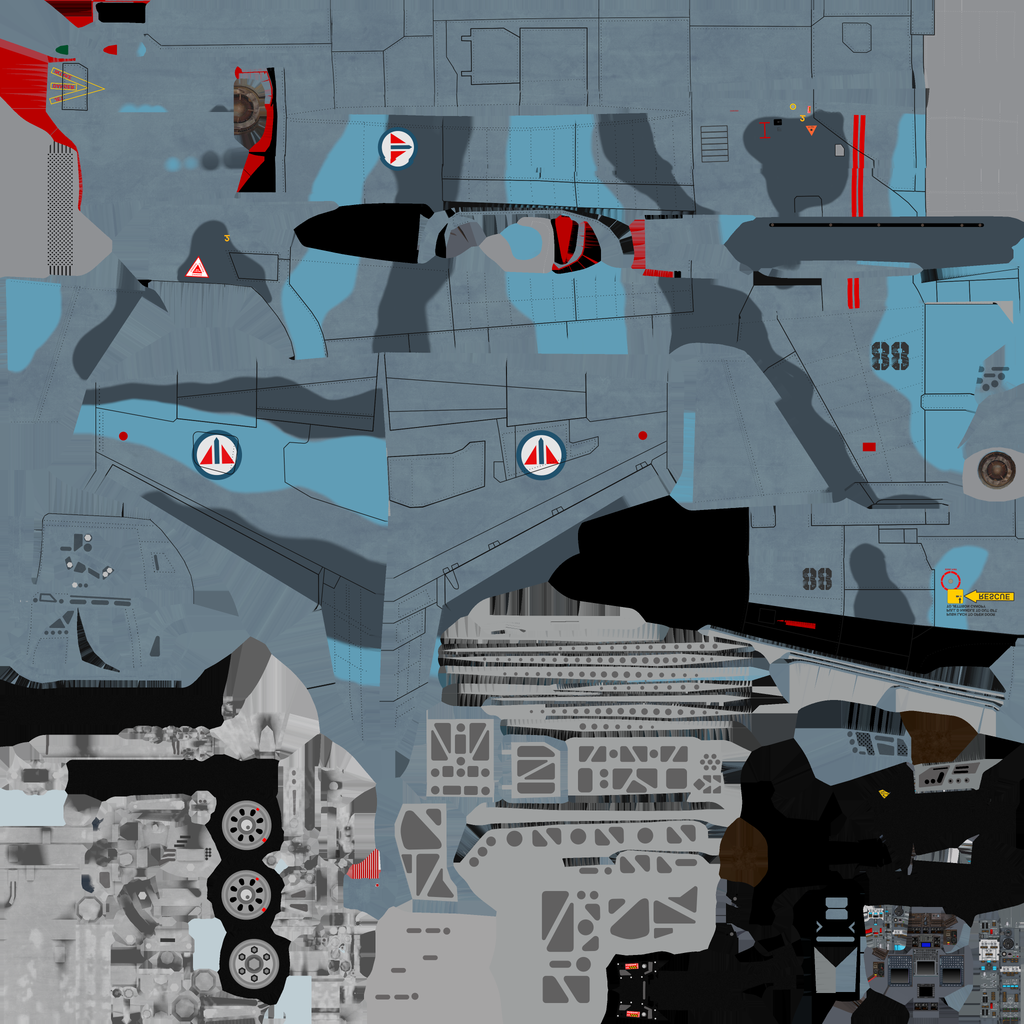
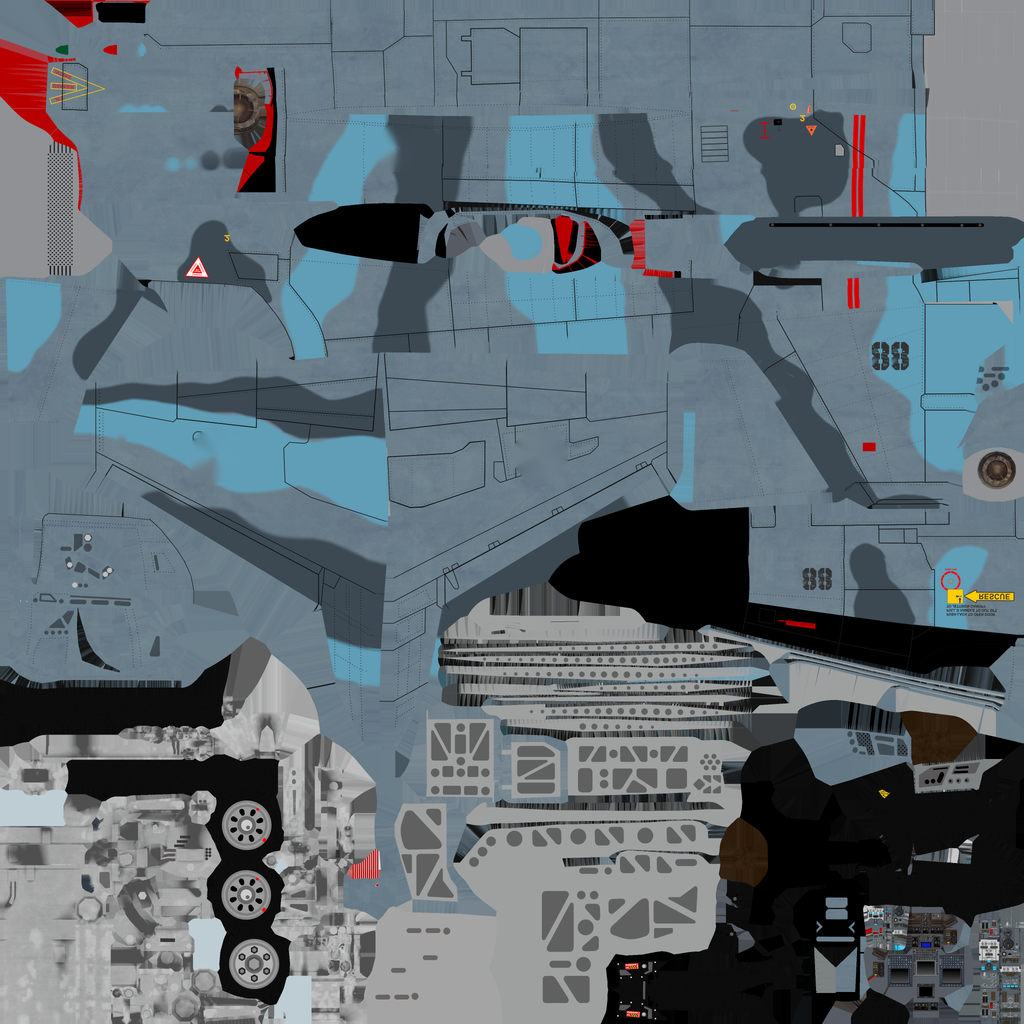
Afterburner nozzle as a smooth glow; missile clouds sooner; gear blown back with legs a quarter out; paint: F-5 roundels and wing dots, Tu-95 nose name removed
- afterburner: no streaks or rays; the liner is a smooth glow carrying the disc's light onto the nozzle walls
- missile trail: cloud colour by 0.6 s, ribbon gone by ~1 s, cloud puffs from 0.25 s
- gear lowered above the limit speed now gets its legs about a quarter out before it blows back
- textures (inpainted): F-5 wing and intake roundels and the two wing dots; Tu-95 nose name/emblem and the
  texture's author line (credited in CREDITS.md). Star-free MiG/Tu-95 textures kept in art/repaint, not used yet.

Claude-Session: https://claude.ai/code/session_01GkN9GAsQbrNUQFnzhTBhTC

Changed region(s): [[0.5, 0.4062, 0.5625, 0.4688], [0.1875, 0.4062, 0.25, 0.4688], [0.3438, 0.125, 0.4062, 0.1875]]

diff --git a/src/weapons.js b/src/weapons.js
@@ -247,7 +247,7 @@ class Trails {
           // three stages along the trail: hot exhaust right behind the motor, a solid dark-grey smoke rope,
           // then (with age) a lighter, puffier white that breaks up
           float hot = 1.0 - smoothstep(0.05, 0.3, age);
-          float puff = smoothstep(0.3, 1.2, age);          // fully cloud-coloured before the ribbon fades out (~0.6-1.6 s)
+          float puff = smoothstep(0.15, 0.6, age);         // fully cloud-coloured before the ribbon fades out (~0.35-1 s)
           float edgeSoft = mix(0.75, 0.35 + 0.35 * n, puff);
           float body = 1.0 - smoothstep(edgeSoft, 1.0, abs(across));
           float breakup = mix(1.0, smoothstep(0.3, 0.75, n), smoothstep(2.0, 5.0, age));
@@ -303,7 +303,7 @@ class Trails {
         const width = 0.22 + 0.9 * (1 - Math.exp(-age / 0.8)) + 3.6 * Math.max(0, age - 1.2) / (1 + Math.max(0, age - 1.2) * 0.3) + 0.8 * Math.sin(p.d * 0.21 + t.seed) * Math.min(1, Math.max(0, age - 1.5) / 3);   // tight near the missile, billowing and lumpy later
         const fromHead = (n - 1 - k);
         const fade = Math.pow(Math.max(0, 1 - age / LIFE), 1.5) * (age < 1.5 ? 0.85 : 0.85 - 0.45 * Math.min(1, (age - 1.5) / 2.5)) * Math.min(1, fromHead / 2 + 0.4)
-          * (1 - THREE.MathUtils.smoothstep(age, 0.6, 1.6));   // solid near the missile; by ~1.6 s the cloud puffs have taken over
+          * (1 - THREE.MathUtils.smoothstep(age, 0.35, 1.0));   // solid near the missile; by ~1 s the cloud puffs have taken over
         P.set([c.x + side.x * width, c.y + side.y * width, c.z + side.z * width], v * 3); A.set([fade, -1, p.d, age], v * 4); v++;
         P.set([c.x - side.x * width, c.y - side.y * width, c.z - side.z * width], v * 3); A.set([fade, 1, p.d, age], v * 4); v++;
         if (k < n - 1) { const a0 = base + k * 2; I.set([a0, a0 + 1, a0 + 2, a0 + 1, a0 + 3, a0 + 2], i); i += 6; }
@@ -781,16 +781,16 @@ export async function createWeapons(scene, jet, ac, cfg, terrain, enemyProto = n
       let lastD = -1e9;
       for (let k = 0; k < t.pts.length; k++) {
         const p = t.pts[k], age = simNow - p.t;
-        if (age < 0.5 || p.d - lastD < 4) continue;
+        if (age < 0.25 || p.d - lastD < 4) continue;
         lastD = p.d;
         // each puff sits a little off the line (seeded by its place along the trail), rises slowly and swells
         const h1 = Math.sin(p.d * 12.9898 + t.seed) * 43758.5453, r1 = h1 - Math.floor(h1);
         const h2 = Math.sin(p.d * 78.233 + t.seed * 3) * 12543.212, r2 = h2 - Math.floor(h2);
-        const spread = Math.min(1, (age - 0.5) / 3) * 4;
+        const spread = Math.min(1, (age - 0.25) / 3) * 4;
         const at = trails.pointAt(t, k, simNow, tmpA);
         at.x += (r1 - 0.5) * spread; at.z += (r2 - 0.5) * spread; at.y += (r1 * r2 - 0.25) * spread + age * 0.6;
-        const grow = 2.2 + 11 * (1 - Math.exp(-(age - 0.5) / 2.6)) * (0.75 + 0.5 * r2);   // ~4 m across, billowing to ~25 m
-        const op = THREE.MathUtils.smoothstep(age, 0.5, 1.2) * Math.pow(Math.max(0, 1 - age / 10), 1.1) * 0.8;
+        const grow = 2.2 + 11 * (1 - Math.exp(-(age - 0.25) / 2.6)) * (0.75 + 0.5 * r2);   // ~4 m across, billowing to ~25 m
+        const op = THREE.MathUtils.smoothstep(age, 0.25, 0.7) * Math.pow(Math.max(0, 1 - age / 10), 1.1) * 0.8;
         const tone = 0.72 + 0.12 * r1;                                    // off-white, a little greyer than a cloud
         smoke.push(at, null, tone * 0.97, tone, tone * 1.04, op, grow, (r1 + r2) % 1);
       }

diff --git a/src/jet.js b/src/jet.js
@@ -73,22 +73,16 @@ void main() {
   float r = length(vUv - 0.5) * 2.0;
   vec3 c = mix(vec3(1.0, 0.85, 1.0) * 1.6, vec3(0.55, 0.42, 1.0) * 0.9, r * r) * uAB;   // the solid glowing disc
   // flame tongues licking out over its rim toward the liner (they only add light, the disc stays solid)
-  // thin straight rays spraying out over the rim (sharp, not wobbly); dry power stays dark
-  float a = atan(vUv.y - 0.5, vUv.x - 0.5) / 6.2832;
-  float n = noise(vec2(a * 32.0, r * 1.2 - uTime * 14.0));
-  c += vec3(1.0, 0.6, 0.38) * smoothstep(0.45, 0.9, n) * smoothstep(0.55, 1.0, r) * uAB * 0.4;   // (soft-edged, unhurried rays)
+
   gl_FragColor = vec4(c, 1.0);
 }`;
-// the inside of the nozzle between the burner face and the lip: hot liner with flame licks streaming out
+// the inside of the nozzle between the burner face and the lip: a smooth glow, brightest deep inside, that carries
+// the disc's light out onto the nozzle walls
 const LINER_FS = `
 uniform float uMil; uniform float uAB; uniform float uTime; varying vec2 vUv;
-${NOISE}
 void main() {
   float deep = vUv.y;                                                     // 1 at the burner face, 0 at the lip
-  // thin straight streaks along the pipe, racing out toward the lip (sharp spray, not wobbly tongues)
-  float n = noise(vec2(vUv.x * 40.0, deep * 1.5 + uTime * 15.0));
-  float lick = smoothstep(0.42, 0.9, n + deep * 0.15);                  // soft-edged streaks
-  vec3 c = mix(vec3(0.9, 0.4, 0.3), vec3(1.0, 0.75, 0.9), lick) * lick * (0.3 + 0.7 * deep) * uAB * 0.7;
+  vec3 c = mix(vec3(0.75, 0.45, 0.9), vec3(1.0, 0.82, 1.0), deep) * (0.15 + 0.85 * deep * deep) * uAB * 0.9;
   gl_FragColor = vec4(c, 1.0);
 }`;
 

diff --git a/src/flight/aircraft.js b/src/flight/aircraft.js
@@ -72,7 +72,7 @@ export class Aircraft {
       const wave = c.waveDrag * (smooth(c.machCrit, c.machPeak, mach) - 0.35 * smooth(c.machPeak, c.machPeak + 0.6, mach));
       this.airbrake += Math.sign(this.airbrakeCmd - this.airbrake) * Math.min(Math.abs(this.airbrakeCmd - this.airbrake), c.airbrakeRate * dt);
       // past the gear's limit speed it comes up by itself (lowered that fast, it gets partway out before the airflow wins)
-      if (this.gearCmd && ias * 1.944 > (c.gearMaxKt || 260) && this.gear >= 0.3) this.gearCmd = 0;
+      if (this.gearCmd && ias * 1.944 > (c.gearMaxKt || 260) && this.gear >= 0.43) this.gearCmd = 0;   // (0.43: legs about a quarter out)
       this.gear += Math.sign(this.gearCmd - this.gear) * Math.min(Math.abs(this.gearCmd - this.gear), dt / (c.gearTime || 4));
       // arcade lift: below corner speed the wing is allowed a guaranteed share of the G limit at full AoA
       // (about 4.7 G at 100 kt, 6.5 G at 145 kt, all of it from ~230 kt). The extra lift costs extra drag,

diff --git a/CREDITS.md b/CREDITS.md
@@ -16,7 +16,7 @@ All licensed under [Creative Commons Attribution 4.0](http://creativecommons.org
 | "MIG-21 Fishbed - cold war era fighter - free" | NETRUNNER_pl | https://skfb.ly/6SoVo | common enemy |
 | "MiG 29" | Usman Zia | https://skfb.ly/6XBBu | main enemy fighter |
 | "VPAF Sukhoi Su-57" | Dave Love SketchFab | https://skfb.ly/pLKWt | ace / boss enemy, possible unlock |
-| "Northrop F-5" | dimal965 | https://skfb.ly/o6FzX | starter player jet |
+| "Northrop F-5" | dimal965 | https://skfb.ly/o6FzX | starter player jet (in game: roundels and wing dots painted out of the texture; split into parts) |
 
 ## Weapons models
 
@@ -24,7 +24,7 @@ All licensed under [Creative Commons Attribution 4.0](http://creativecommons.org
 | --- | --- | --- | --- |
 | "300 followers - free aircraft missile set" | NETRUNNER_pl | https://sketchfab.com/3d-models/300-followers-free-aircraft-missile-set-2e70bc2ea0824897b2ccaea378809c9e | short-range missile (CC-BY 4.0; the set's text labels are not used) |
 
-| "Tupolev Tu-95 \"Bear\"" | helijah | https://skfb.ly/DITt | slow bomber enemy (CC-BY 4.0; gear removed, split into parts; repaint pending) |
+| "Tupolev Tu-95 \"Bear\"" | helijah | https://skfb.ly/DITt | slow bomber enemy (CC-BY 4.0; gear removed, split into parts; nose name and the texture's credit line painted out; stars still to go) |
 
 ### Pending
 

diff --git a/art/repaint/README.md b/art/repaint/README.md
@@ -1,0 +1,7 @@
+Star-free versions of the enemy textures (red stars inpainted out), kept for later. Not used by the game yet:
+the game still loads public/models/jets/mig15_0.png and bomber_0.png, which keep their stars.
+
+- mig15_0.nostars.png: the four red stars removed.
+- bomber_0.nostars.png: the six red stars removed (on top of the nose name and credit text, already removed in the game texture).
+
+To use one, copy it over the matching file in public/models/jets/.
